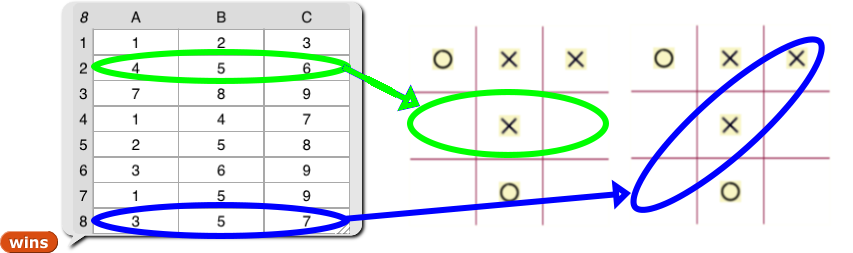
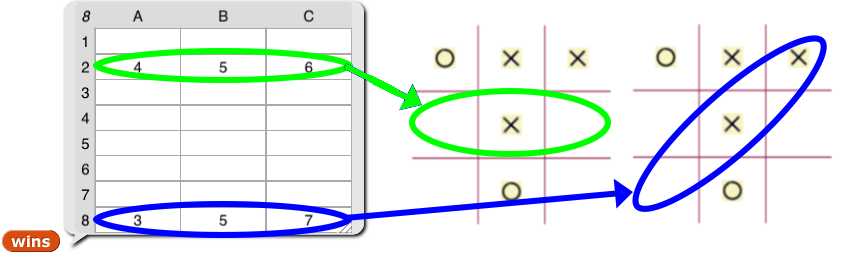
edits to mini17 tttv2

diff --git a/cur/programming/1-introduction/mini17/tttv2.html b/cur/programming/1-introduction/mini17/tttv2.html
@@ -10,10 +10,11 @@
 <h3>Tic-Tac-Toe: Look for Wins</h3>
 <p>In earlier labs, you worked out how to display moves on a tic-tac-toe board and keep track of them in a variable <var>board</var> whose value is a list of nine values, one per square of the board, each of which can be X or O or empty if that square is unoccupied:<br />
 <img src="/bjc-r/img/1-introduction/ttt-board-and-list.png" alt="tic-tac-toe board and BOARD list" /><br /> 
-Now we'd like the computer to detect whether a player has won the game, and to do that, it has to be able to detect patterns in the board position that mean, for example, &quot;I have three cells in a row.&quot; Your goal is to write a <img src="/bjc-r/img/1-introduction/has-player-won.png" alt="has player ( ) won?"> block. The input will be X or O.</p>
-<div class="forYouToDo" id="first"><ol><li>How many ways are there to win at tic-tac-toe?  That is, which sets of three squares count as a win?  Work with your partner to make a list on paper.</li>
-<li>Load <a class="run" href="/bjc-r/prog/1-introduction/mini-ttt.xml">this project</a>.  We've provided a <code>wins</code> block that reports a list of all the winning triples:<br />
-  <img src="/bjc-r/img/1-introduction/wins.png" width="80%" height="253" alt="wins" /><br />
+Now we'd like the computer to check,  after a player has moved, whether that player has won the game. To do that, it must be able to detect patterns in the board position that mean the player has three cells in some row or column or diagonal. Your goal is to write a <img src="/bjc-r/img/1-introduction/has-player-won.png" alt="has player ( ) won?"> block. The input will be X or O, representing the player that just moved.</p>
+<div class="forYouToDo" id="first"><ol>
+<li>How many ways are there to win at tic-tac-toe? With your partner, figure out which sets of three squares count as a win and list them all on paper. (For example, {4, 5, 6} is the list of cells in the second row. If one player fills all three  cells in that list, that player wins. Another win is {3, 5, 7}, one of the diagonals.)</li>
+<li>Load <a class="run" href="/bjc-r/prog/1-introduction/mini-ttt.xml">this project</a>.  The <code>wins</code> block already contains the two wins listed above. Fill in the remaining winning triples you've found.<br />
+  <img src="/bjc-r/img/1-introduction/wins.png" width="50%" alt="wins" /><br />
   </li>
   <li>Try these:<br />
               
